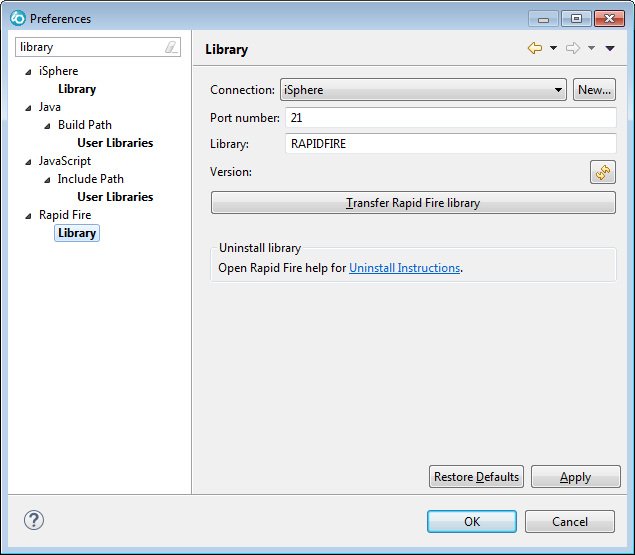
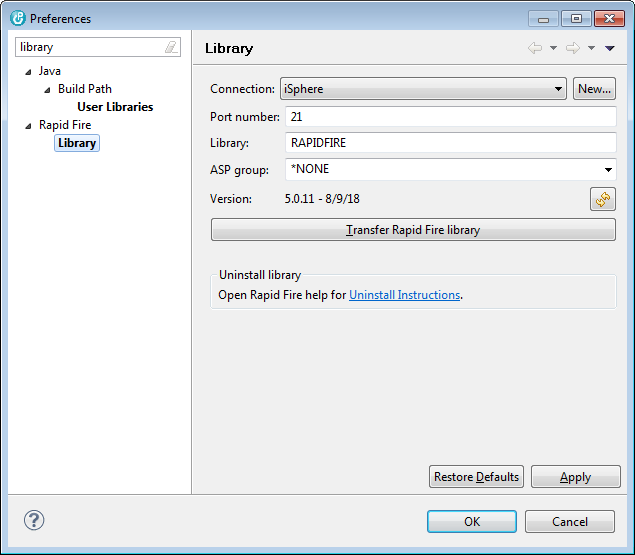
Updated Rapid Fire help.

diff --git a/eclipse/Rapid Fire Help Plugin/html/install/install_library.html b/eclipse/Rapid Fire Help Plugin/html/install/install_library.html
@@ -60,14 +60,22 @@ Follow these steps to install the Rapid Fire library from the host:
 <li>Click on &quot;Windows / Preferences&quot;.</li>
 <li>Expand item &quot;Rapid Fire&quot;.</li>
 <li>Click &quot;Library&quot;.</li>
-<li>In &quot;Host name:&quot; enter the name of the IBM i host
-    system. (You could also enter an IP address.)<br>
+<li>In &quot;Host name:&quot; enter the name of an IBM i host
+    system that is configured as a <i>Remote System</i> in the <i>Remote System Explorer</i> view.<br>
     Review the &quot;FTP port number&quot; and the name of the &quot;Rapid Fire
     library&quot;. The default FTP port is 21. The default library name is
     RAPIDFIRE.<br>
-    <b>Note:</b> You may use another library name, but be aware that this library 
-    will be <b>deleted</b> if it exists.<br>
-    Click the [Transfer Rapid Fire library] button.</li>
+    <b>Note:</b> You may use another library name, but be aware
+    that this library will be <b>deleted</b> if it exists.
+<li>Verify the ASP group. The name of the ASP group is used for parameter <i>RSTASPDEV</i>
+    of command <i>RSTLIB</i> when restoring the Rapid Fire library. The possible values are:<p>
+    <table>
+    <tr><td nowrap valign="top">*NONE</td><td valign="top">-</td><td valign="top">The DLTLIB and RSTLIB commands are executed without the ASPDEV and RSTASPDEV parameters.</td></tr>
+    <tr><td nowrap valign="top">asp-device-name</td><td valign="top">-</td><td valign="top">The DLTLIB command is executed with ASPDEV(*) and the RSTLIB command is extended with RSTASPDEV(asp-device-name).</td></tr>
+    </table>
+    <p>
+    </li>
+<li>Click the [Transfer Rapid Fire library] button.</li>
 <li>Use the refresh button to retrieve the version of the Rapid Fire library. Once
     pressed, the version is automatically updated as the library name changes.
     Auto-update is disabled, when the host name is changed.<p>
@@ -79,12 +87,6 @@ Follow these steps to install the Rapid Fire library from the host:
 <li>On the following &quot;Transfer Rapid Fire library&quot; dialog, specify whether
     to start journaling the Rapid Fire files and then click [Start Transfer] to start 
     the FTP transfer.<br>
-	Use the <i>ASP device name</i> parameter to specify the	name of the ASP device 
-	for restoring the library.<p>
-	<table>
-	<tr><td nowrap valign="top">*DFAULT</td><td valign="top">-</td><td valign="top">The DLTLIB and RSTLIB commands are executed without the ASPDEV and RSTASPDEV parameters.</td></tr>
-	<tr><td nowrap valign="top">asp-device-name</td><td valign="top">-</td><td valign="top">The DLTLIB command is executed with ASPDEV(*) and the RSTLIB command is extended with RSTASPDEV(asp-device-name).</td></tr>
-	</table>
 	<p>
     <img src="./assets/transfer_start.png" /><p></li>
 <li>If the Rapid FIre library already exists, you will be asked to confirm 
